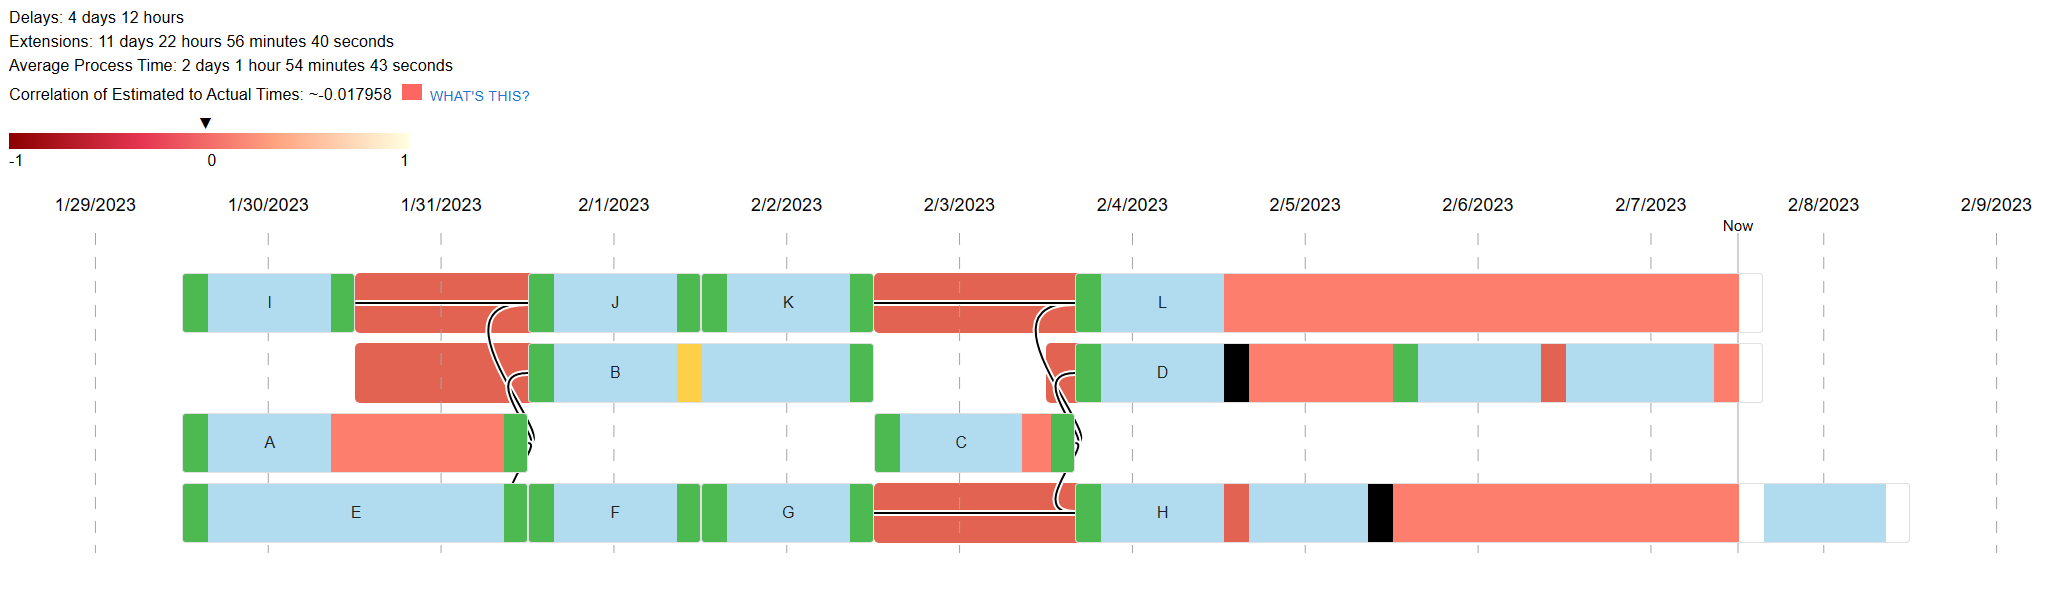
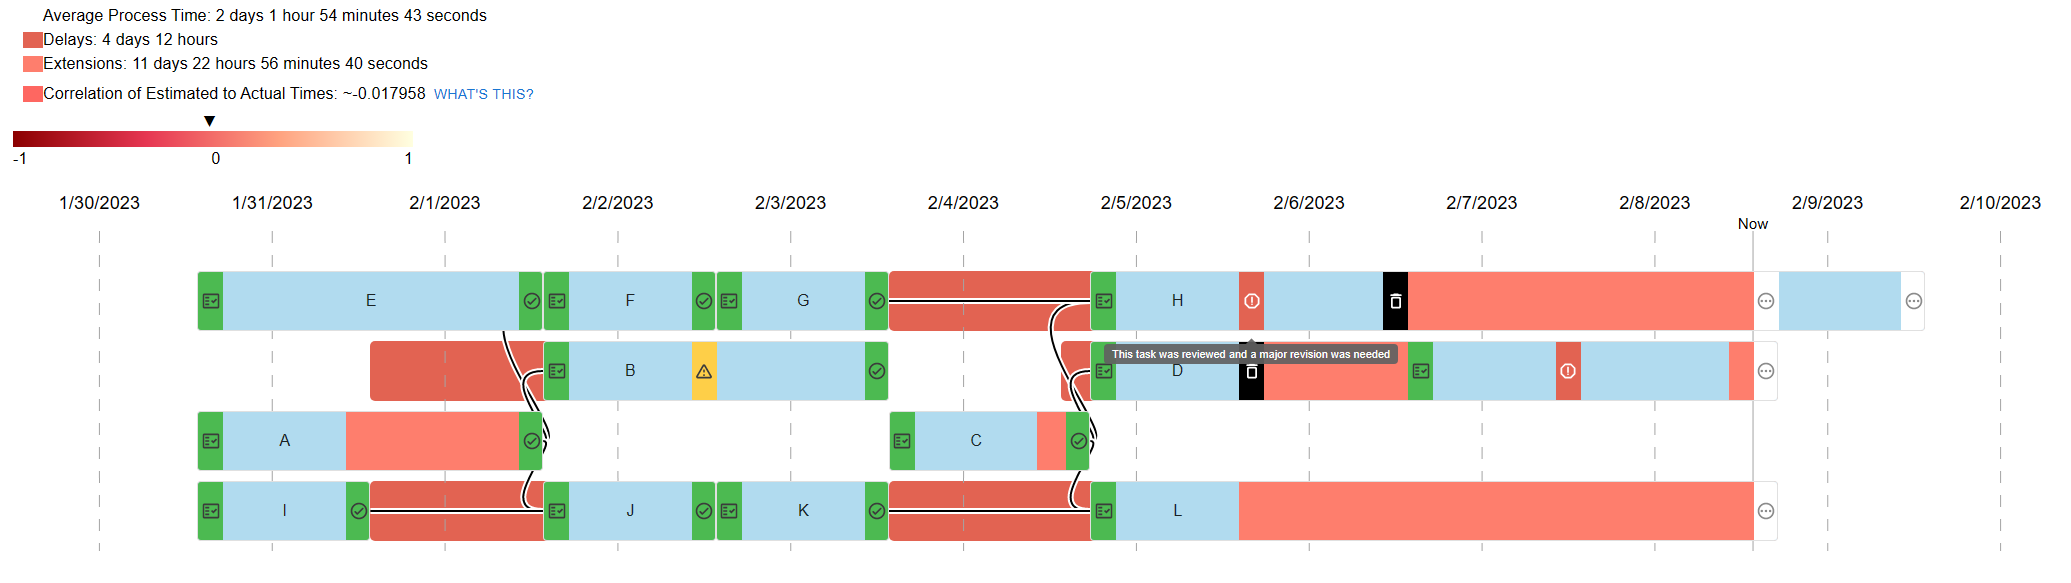
feat: added tooltips

diff --git a/src/features/Poster/TaskUnitCard/ReviewBox.tsx b/src/features/Poster/TaskUnitCard/ReviewBox.tsx
@@ -5,6 +5,7 @@ import PendingOutlinedIcon from "@mui/icons-material/PendingOutlined";
 import ReportGmailerrorredOutlinedIcon from "@mui/icons-material/ReportGmailerrorredOutlined";
 import WarningAmberRoundedIcon from "@mui/icons-material/WarningAmberRounded";
 import type SvgIcon from "@mui/material/SvgIcon";
+import Tooltip from "@mui/material/Tooltip";
 import { theme } from "../../../app/theme";
 import { ReviewType } from "../../../types";
 
@@ -12,16 +13,19 @@ export default function ReviewBox({ variant }: { variant: ReviewType }) {
   const className = classMap[variant];
   const wrapperStyles = styleMap[variant];
   const IconComponent = iconMap[variant];
+  const tooltipText = tooltipMap[variant];
   return (
-    <div css={wrapperStyles} className={`reviewBox ${className}`}>
-      <div css={iconBoxStyles}>
-        <IconComponent fontSize="small" />
+    <Tooltip describeChild title={tooltipText} arrow>
+      <div css={wrapperStyles} className={`reviewBox ${className}`}>
+        <div css={iconBoxStyles}>
+          <IconComponent fontSize="small" />
+        </div>
       </div>
-    </div>
+    </Tooltip>
   );
 }
 
-type ReviewVariantClassMap = {
+type ReviewVariantStringMap = {
   [V in ReviewType]: string;
 };
 type ReviewVariantStyleMap = {
@@ -31,7 +35,7 @@ type ReviewVariantIconMap = {
   [V in ReviewType]: typeof SvgIcon;
 };
 
-const classMap: ReviewVariantClassMap = {
+const classMap: ReviewVariantStringMap = {
   [ReviewType.Pending]: "pendingReview",
   [ReviewType.Accepted]: "acceptedReview",
   [ReviewType.NeedsMinorRevision]: "needsMinorRevisionReview",
@@ -114,4 +118,15 @@ const iconMap: ReviewVariantIconMap = {
   [ReviewType.NeedsMinorRevision]: WarningAmberRoundedIcon,
   [ReviewType.NeedsMajorRevision]: ReportGmailerrorredOutlinedIcon,
   [ReviewType.NeedsRebuild]: DeleteOutlineRoundedIcon,
+};
+
+const tooltipMap: ReviewVariantStringMap = {
+  [ReviewType.Pending]: "This task needs to be reviewed",
+  [ReviewType.Accepted]: "This task was successfully reviewed",
+  [ReviewType.NeedsMinorRevision]:
+    "This task was reviewed and a minor revision was needed",
+  [ReviewType.NeedsMajorRevision]:
+    "This task was reviewed and a major revision was needed",
+  [ReviewType.NeedsRebuild]:
+    "This task was reviewed and a complete rebuild was needed",
 };

diff --git a/src/features/Poster/TaskUnitCard/PrerequisitesBox.tsx b/src/features/Poster/TaskUnitCard/PrerequisitesBox.tsx
@@ -2,18 +2,30 @@ import { css } from "@emotion/react";
 import { theme } from "../../../app/theme";
 import FactCheckOutlinedIcon from "@mui/icons-material/FactCheckOutlined";
 import PendingOutlinedIcon from "@mui/icons-material/PendingOutlined";
+import Tooltip from "@mui/material/Tooltip";
 
 export default function PrerequisitesBox({ started }: { started: boolean }) {
-  const wrapperStyles = started ? acceptedStyles : pendingStyles;
-  const [className, IconComponent] = started
-    ? ["acceptedPrerequisiteBox", FactCheckOutlinedIcon]
-    : ["pendingPrerequisiteBox", PendingOutlinedIcon];
+  const [wrapperStyles, className, IconComponent, tooltipText] = started
+    ? [
+        acceptedStyles,
+        "acceptedPrerequisiteBox",
+        FactCheckOutlinedIcon,
+        "This task's prerequisites have been signed off on",
+      ]
+    : [
+        pendingStyles,
+        "pendingPrerequisiteBox",
+        PendingOutlinedIcon,
+        "This task's prerequisites have not been signed off on",
+      ];
   return (
-    <div css={wrapperStyles} className={`prerequisiteBox ${className}`}>
-      <div css={iconBoxStyles}>
-        <IconComponent fontSize="small" />
+    <Tooltip describeChild title={tooltipText} arrow>
+      <div css={wrapperStyles} className={`prerequisiteBox ${className}`}>
+        <div css={iconBoxStyles}>
+          <IconComponent fontSize="small" />
+        </div>
       </div>
-    </div>
+    </Tooltip>
   );
 }
 
